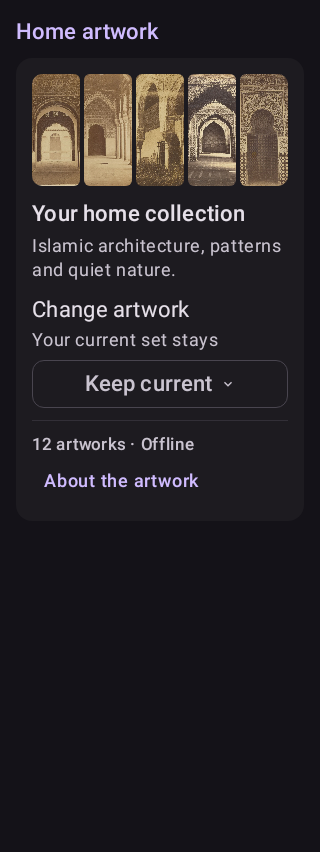
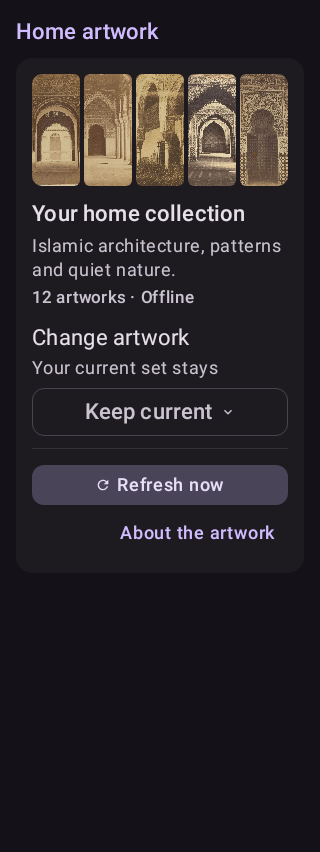
Add Refresh now to home artwork settings (#7)

Changed region(s): [[0.0938, 0.3357, 0.9062, 0.6408], [0.875, 0.4577, 0.9062, 0.4883]]

diff --git a/core/components/src/commonMain/kotlin/com/starception/submission/settings/components/HomeArtworkSettingsSection.kt b/core/components/src/commonMain/kotlin/com/starception/submission/settings/components/HomeArtworkSettingsSection.kt
@@ -36,9 +36,11 @@ import androidx.compose.material.icons.Icons
 import androidx.compose.material.icons.outlined.Check
 import androidx.compose.material.icons.outlined.ExpandMore
 import androidx.compose.material.icons.outlined.OpenInNew
+import androidx.compose.material.icons.outlined.Refresh
 import androidx.compose.material3.AlertDialog
 import androidx.compose.material3.DropdownMenu
 import androidx.compose.material3.DropdownMenuItem
+import androidx.compose.material3.FilledTonalButton
 import androidx.compose.material3.HorizontalDivider
 import androidx.compose.material3.Icon
 import androidx.compose.material3.MaterialTheme
@@ -123,6 +125,7 @@ fun HomeArtworkSettingsSection() {
                     Text("Islamic architecture, patterns and quiet nature.",
                         style = MaterialTheme.typography.bodySmall,
                         color = MaterialTheme.colorScheme.onSurfaceVariant)
+                    ArtworkAvailability()
                 }
                 BoxWithConstraints(Modifier.fillMaxWidth()) {
                     val stackControls = maxWidth < 280.dp || LocalDensity.current.fontScale > 1.2f
@@ -143,7 +146,7 @@ fun HomeArtworkSettingsSection() {
                 BoxWithConstraints(Modifier.fillMaxWidth()) {
                     if (maxWidth < 280.dp || LocalDensity.current.fontScale > 1.2f) {
                         Column {
-                            ArtworkAvailability()
+                            ArtworkRefreshButton(settings::refreshNow, Modifier.fillMaxWidth())
                             TextButton(onClick = { showDetails = true },
                                 modifier = Modifier.align(Alignment.End).testTag("homeArtworkDetails")) {
                                 Text("About the artwork", style = MaterialTheme.typography.labelMedium)
@@ -152,7 +155,7 @@ fun HomeArtworkSettingsSection() {
                     } else {
                         Row(Modifier.fillMaxWidth(), verticalAlignment = Alignment.CenterVertically,
                             horizontalArrangement = Arrangement.SpaceBetween) {
-                            ArtworkAvailability()
+                            ArtworkRefreshButton(settings::refreshNow)
                             TextButton(onClick = { showDetails = true }, modifier = Modifier.testTag("homeArtworkDetails")) {
                                 Text("About the artwork", style = MaterialTheme.typography.labelMedium)
                             }
@@ -210,6 +213,19 @@ private fun ArtworkAvailability() {
     Text("${homeArtworkGallery.size} artworks · Offline",
         style = MaterialTheme.typography.labelSmall,
         color = MaterialTheme.colorScheme.onSurfaceVariant)
+}
+
+@Composable
+private fun ArtworkRefreshButton(onClick: () -> Unit, modifier: Modifier = Modifier) {
+    FilledTonalButton(
+        onClick = onClick,
+        modifier = modifier.testTag("homeArtworkRefreshNow"),
+        shape = RoundedCornerShape(12.dp),
+    ) {
+        Icon(Icons.Outlined.Refresh, contentDescription = null,
+            modifier = Modifier.padding(end = 6.dp).size(16.dp))
+        Text("Refresh now", style = MaterialTheme.typography.labelMedium)
+    }
 }
 
 private val ArtworkFrequency.shortLabel: String

diff --git a/app/src/testDemo/kotlin/com/starception/submission/feature/prayertimes/HomeArtworkSettingsTest.kt b/app/src/testDemo/kotlin/com/starception/submission/feature/prayertimes/HomeArtworkSettingsTest.kt
@@ -78,6 +78,14 @@ class HomeArtworkSettingsTest {
             val restored = HomeArtworkSettings(prefs.getString("schedule", null)) {}
             assertEquals(ArtworkFrequency.FIXED, restored.schedule.frequency)
         }
+        val beforeRefresh = HomeArtworkSchedule.decode(prefs.getString("schedule", null))
+        compose.onNodeWithTag("homeArtworkRefreshNow").assertIsDisplayed().performClick()
+        compose.runOnIdle {
+            val restored = HomeArtworkSettings(prefs.getString("schedule", null)) {}.schedule
+            assertEquals(beforeRefresh.rotation + 1, restored.rotation)
+            assertEquals(beforeRefresh.anchor, restored.anchor)
+            assertEquals(ArtworkFrequency.FIXED, restored.frequency)
+        }
         compose.onRoot().captureRoboImage("src/testDemo/screenshots/home_artwork_settings.png")
         // Leave the shared singleton at the normal default for other component tests.
         compose.onNodeWithTag("homeArtworkFrequency").performClick()
@@ -108,6 +116,7 @@ class HomeArtworkSettingsTest {
         compose.onNodeWithTag("homeArtworkFrequency").assertIsDisplayed().performClick()
         compose.onNodeWithText("Keep current").performClick()
         compose.onNodeWithTag("homeArtworkDetails").assertIsDisplayed()
+        compose.onNodeWithTag("homeArtworkRefreshNow").assertIsDisplayed()
         compose.onRoot().captureRoboImage("src/testDemo/screenshots/home_artwork_settings_large_text.png")
         compose.onNodeWithTag("homeArtworkFrequency").performClick()
         compose.onNodeWithText("Every day").performClick()

diff --git a/core/images/src/commonTest/kotlin/com/starception/submission/core/images/HomeArtworkScheduleTest.kt b/core/images/src/commonTest/kotlin/com/starception/submission/core/images/HomeArtworkScheduleTest.kt
@@ -75,6 +75,29 @@ class HomeArtworkScheduleTest {
     }
 
     @Test
+    fun manualRefreshPersistsAndPreservesEveryCadenceAndItsNextBoundary() {
+        val now = Instant.parse("2026-11-10T10:00:00Z")
+        for (frequency in ArtworkFrequency.entries) {
+            val original = HomeArtworkSchedule(frequency, anchor, rotation = 2)
+            var saved = original.encode()
+            val settings = HomeArtworkSettings(saved) { saved = it }
+            settings.refreshNow()
+            val refreshed = HomeArtworkSchedule.decode(saved)
+            assertEquals(original.anchor, refreshed.anchor)
+            assertEquals(frequency, refreshed.frequency)
+            assertEquals(original.rotationAt(now, dubai) + 1, refreshed.rotationAt(now, dubai))
+            val tomorrow = Instant.parse("2026-11-11T10:00:00Z")
+            assertEquals(original.rotationAt(tomorrow, dubai) - original.rotationAt(now, dubai),
+                refreshed.rotationAt(tomorrow, dubai) - refreshed.rotationAt(now, dubai))
+            assertEquals(refreshed, HomeArtworkSettings(saved) {}.schedule)
+            for (page in 0..4) {
+                assertNotEquals(homeArtworkIndex(page, original.rotationAt(now, dubai)),
+                    homeArtworkIndex(page, refreshed.rotationAt(now, dubai)))
+            }
+        }
+    }
+
+    @Test
     fun missingOrCorruptPreferenceDefaultsToDailyWithoutCrashing() {
         for (saved in listOf(null, "", "WEEKLY|bad|1", "UNKNOWN|0|0", "DAILY|0|-1")) {
             val schedule = HomeArtworkSchedule.decode(saved, anchor)

diff --git a/core/images/src/commonMain/kotlin/com/starception/submission/core/images/HomeArtworkSchedule.kt b/core/images/src/commonMain/kotlin/com/starception/submission/core/images/HomeArtworkSchedule.kt
@@ -84,6 +84,12 @@ class HomeArtworkSettings(saved: String?, private val save: (String) -> Unit) {
         schedule = schedule.withFrequency(frequency, Clock.System.now())
         save(schedule.encode())
     }
+
+    /** Advance immediately, including in Keep current mode, without moving the next scheduled change. */
+    fun refreshNow() {
+        schedule = schedule.copy(rotation = ((schedule.rotation.toLong() + 1) % Int.MAX_VALUE).toInt())
+        save(schedule.encode())
+    }
 }
 
 @Composable

diff --git a/docs/ANDROID_IMMERSIVE_HOME.md b/docs/ANDROID_IMMERSIVE_HOME.md
@@ -60,6 +60,9 @@ changes follow each seven local days from the selected cadence, and monthly
 changes follow calendar-month boundaries. While Home remains open, the date is
 checked once a minute, so a change appears within a minute of its boundary.
 Keep current freezes the currently displayed set, including across relaunches.
+Refresh now advances all five covers immediately, even in Keep current mode. It
+preserves the frequency and next scheduled change, saves the new selection, and
+uses the bundled gallery without downloading new images.
 Switching cadence preserves the current set and starts the new cadence from that
 point. The twelve-image allowlist repeats rather than fetching unreviewed artwork.
 The cover, rail, and readers resolve the same artwork for each page; five different
